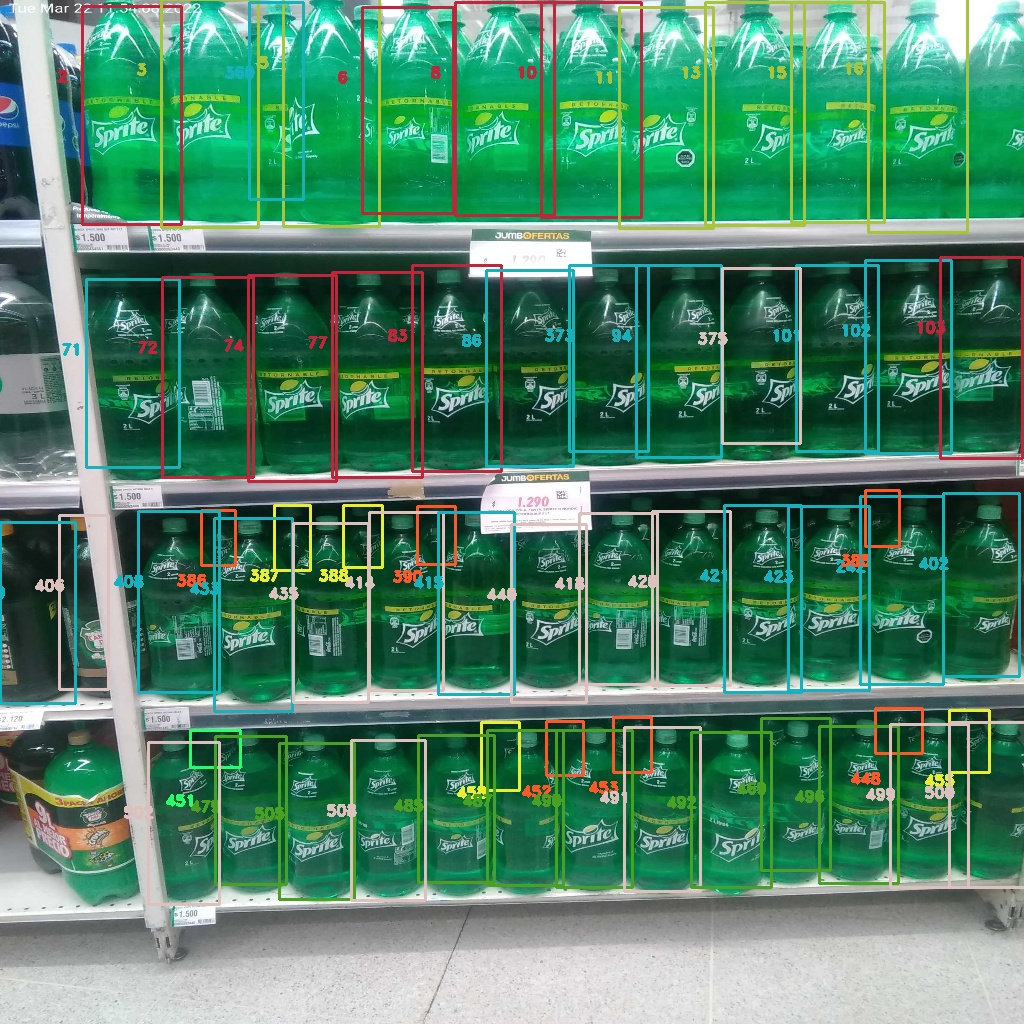
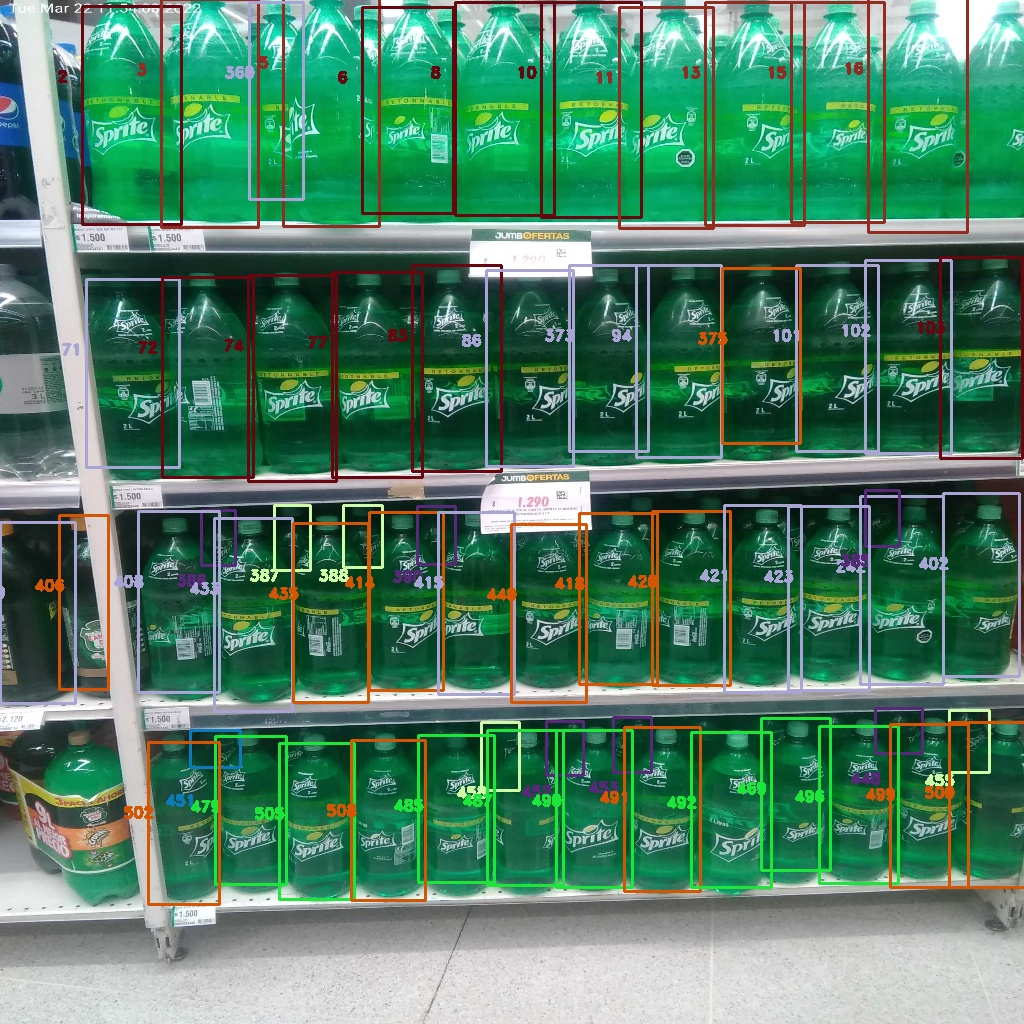
updating

diff --git a/python/DEMO_WINUX_PALETA_20220517.py b/python/DEMO_WINUX_PALETA_20220517.py
@@ -42,7 +42,7 @@ def testYolo(src_, types_):
         img = cv2.imdecode(np_array, cv2.IMREAD_COLOR)
         img_ORIGINAL = cv2.imdecode(np_array, cv2.IMREAD_COLOR)
     else:
-        path_ = "C:/RSILVA_REPOS/TEST_CLASIFICATOR/python/"
+        path_ = "C:/documentos/2022/Rene/TEST_CLASIFICATOR/python/"
         img = None
         img = cv2.imread(f'{path_}{src_}')
         #print(f"tamos en windors compare:{src_}")
@@ -52,7 +52,7 @@ def testYolo(src_, types_):
     #img = cv2.imread(f'{path_}{src_}')
 
     # Load Yolo
-    yolo_weight = "C:/RSILVA_REPOS/yolov3.weights"
+    yolo_weight = "C:/documentos/2022/Rene/yolov3.weights"
     yolo_config = "yolov3.cfg"
     coco_labels = "coco.names"
     net = cv2.dnn.readNet(yolo_weight, yolo_config)
@@ -191,6 +191,12 @@ def testYolo(src_, types_):
             elemento["y2"] = y + h
             elemento["w"] = w
             elemento["h"] = h
+
+
+            #failures:
+            if elemento["y1"]<0:
+                elemento["y1"]=0
+
 
             #altura_mitad = int(h/2)
             half_altura = int(h/20)
@@ -437,8 +443,8 @@ def __paleta__(path_, file_):
     out["OUT"] = "test" 
     return out
 
-#testYolo("22032022115408_FOTO_SALA_BUENA.jpg", types_=['bottle'])  #sprite
-testYolo("_ELEGIDA_27012022165311_FOTO_SALA_BUENA.jpg", types_=['bottle']) # coca cola
+testYolo("22032022115408_FOTO_SALA_BUENA.jpg", types_=['bottle'])  #sprite
+#testYolo("_ELEGIDA_27012022165311_FOTO_SALA_BUENA.jpg", types_=['bottle']) # coca cola
 
 
 """
@@ -447,4 +453,12 @@ testYolo("_ELEGIDA_27012022165311_FOTO_SALA_BUENA.jpg", types_=['bottle']) # coc
         print("tamos en linus compare")
     else:
         print("tamos en windors compare")
+
+
+
+
+python DEMO_WINUX_PALETA_20220517.py
+
+
+
 """
